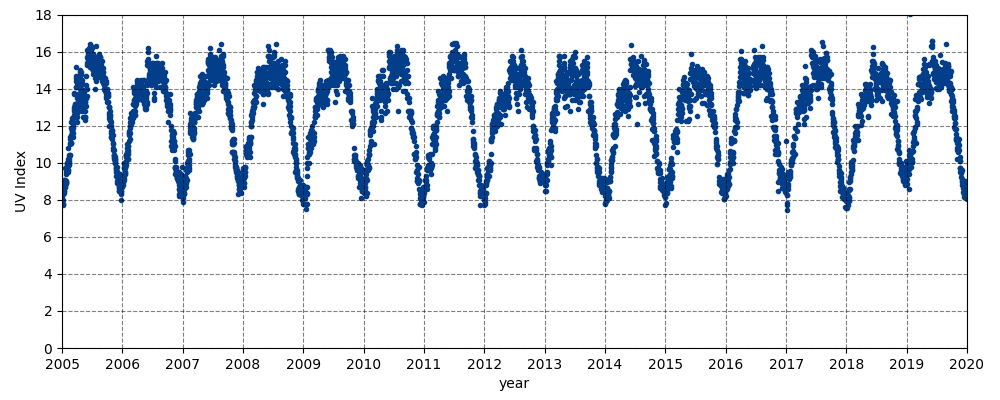
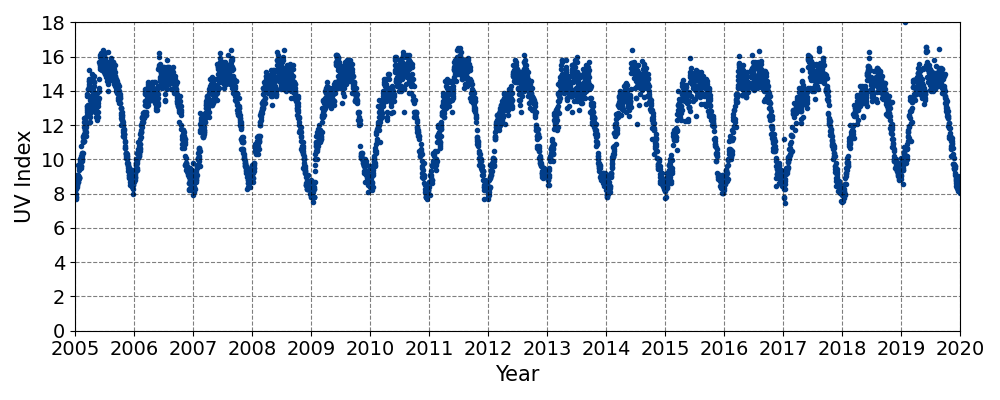
Change on graphics

diff --git a/Scripts/Graphics_omi_data.py b/Scripts/Graphics_omi_data.py
@@ -32,32 +32,36 @@ def drop_data_useless(data, columns, limit):
     return data
 
 
-def plot_data(data,  date_initial, date_final, path, name):
+def plot_data(data,  date_initial, date_final, path, name, fontsize=14):
     plt.subplots(figsize=(10, 4))
     plt.subplots_adjust(top=0.963,
-                        bottom=0.13,
+                        bottom=0.2,
                         left=0.062,
                         right=0.967,
                         hspace=0.2,
                         wspace=0.2)
-    plt.xlabel("year")
-    plt.ylabel("UV Index")
+    plt.xlabel("Year",
+               fontsize=fontsize+1)
+    plt.ylabel("UV Index",
+               fontsize=fontsize+1)
     dates, xtick = obtain_xticks(date_initial,
                                  date_final)
     plt.xlim(pd.to_datetime(date_initial).date(),
              pd.to_datetime(date_final).date())
-    plt.xticks(dates, xtick)
+    plt.xticks(dates, xtick,
+               fontsize=fontsize)
     plt.scatter(data.index, data,
                 c="#023e8a",
                 marker=".")
     plt.ylim(0, 18)
-    plt.yticks(np.arange(0, 20, 2))
+    plt.yticks(np.arange(0, 20, 2),
+               fontsize=fontsize)
     plt.grid(ls="--",
              color="#000000",
              alpha=0.5)
+    plt.tight_layout()
     plt.savefig("{}{}.png".format(path,
                                   name))
-    plt.show()
 
 
 def obtain_xticks(date_initial, date_final):
@@ -94,10 +98,6 @@ data = obtain_data_in_period(data,
 data = drop_data_useless(data,
                          inputs["UVIcolumns"],
                          inputs["UVI limit"])
-year = data[data.index.month >= 6]
-year = year[year.index.month <= 7]
-#print(year[year == year.max()])
-print(year)
 for uvicolumn in inputs["UVIcolumns"]:
     print("Creando archivo {}".format(uvicolumn))
     data_UVI = data[uvicolumn]
